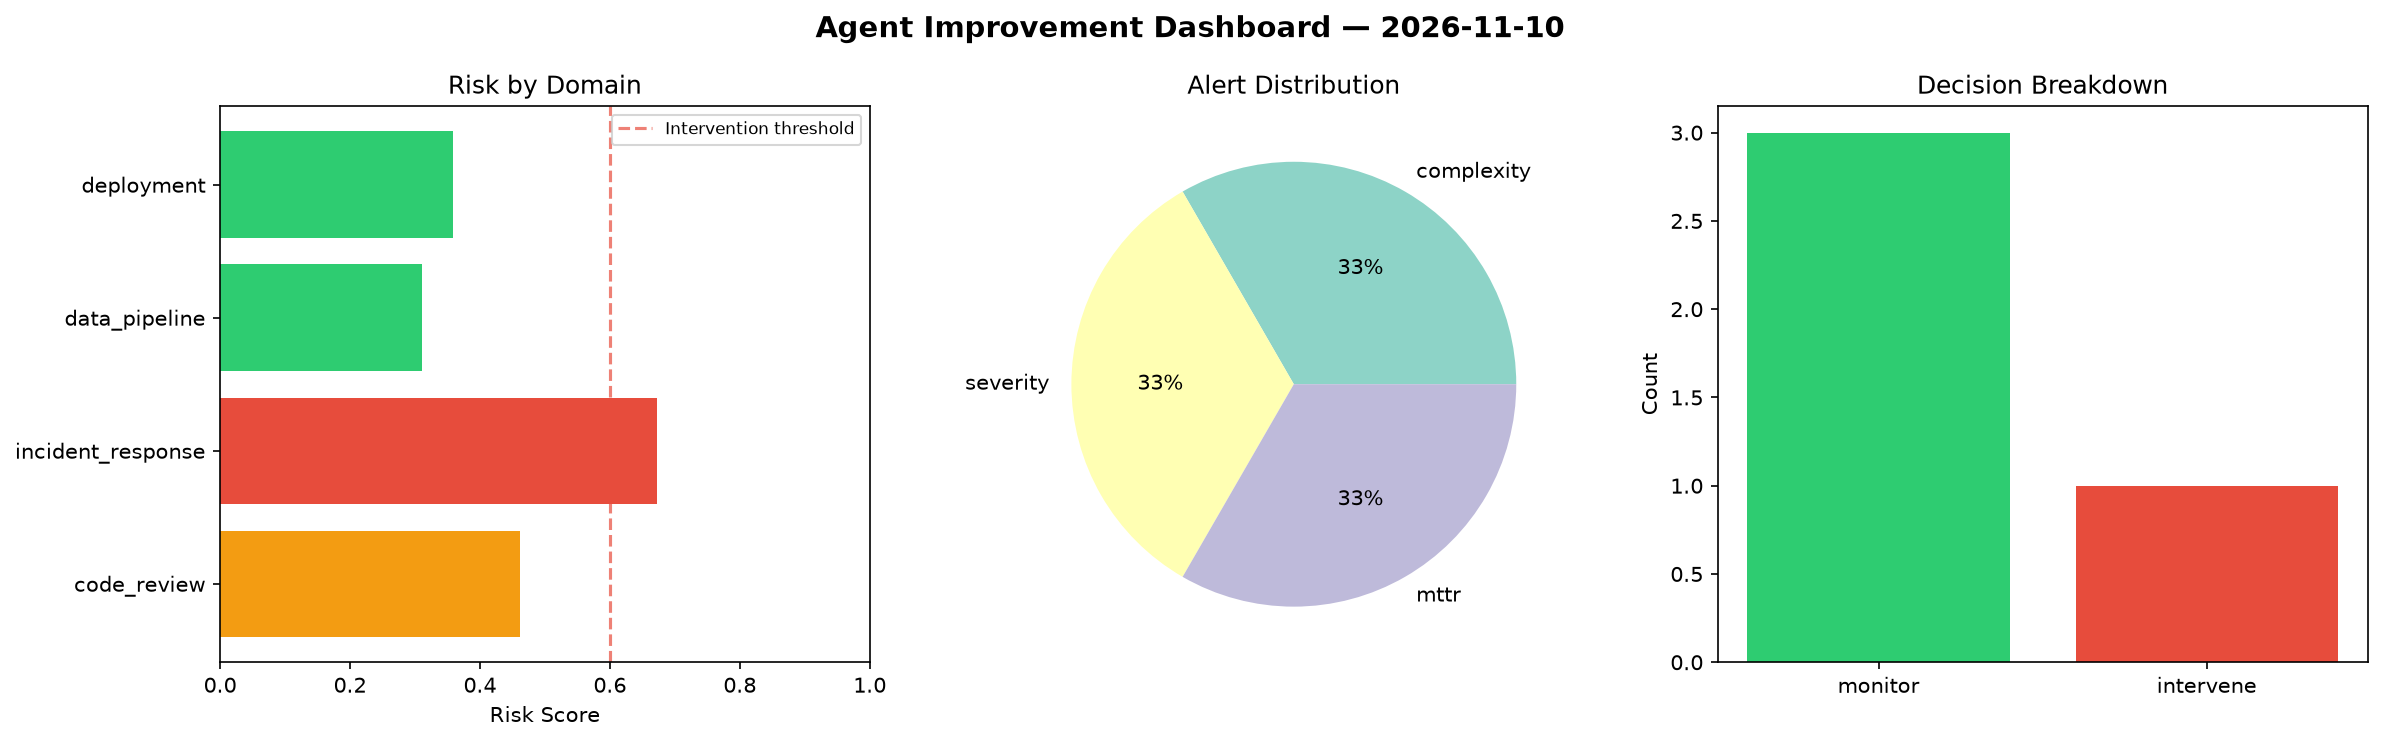
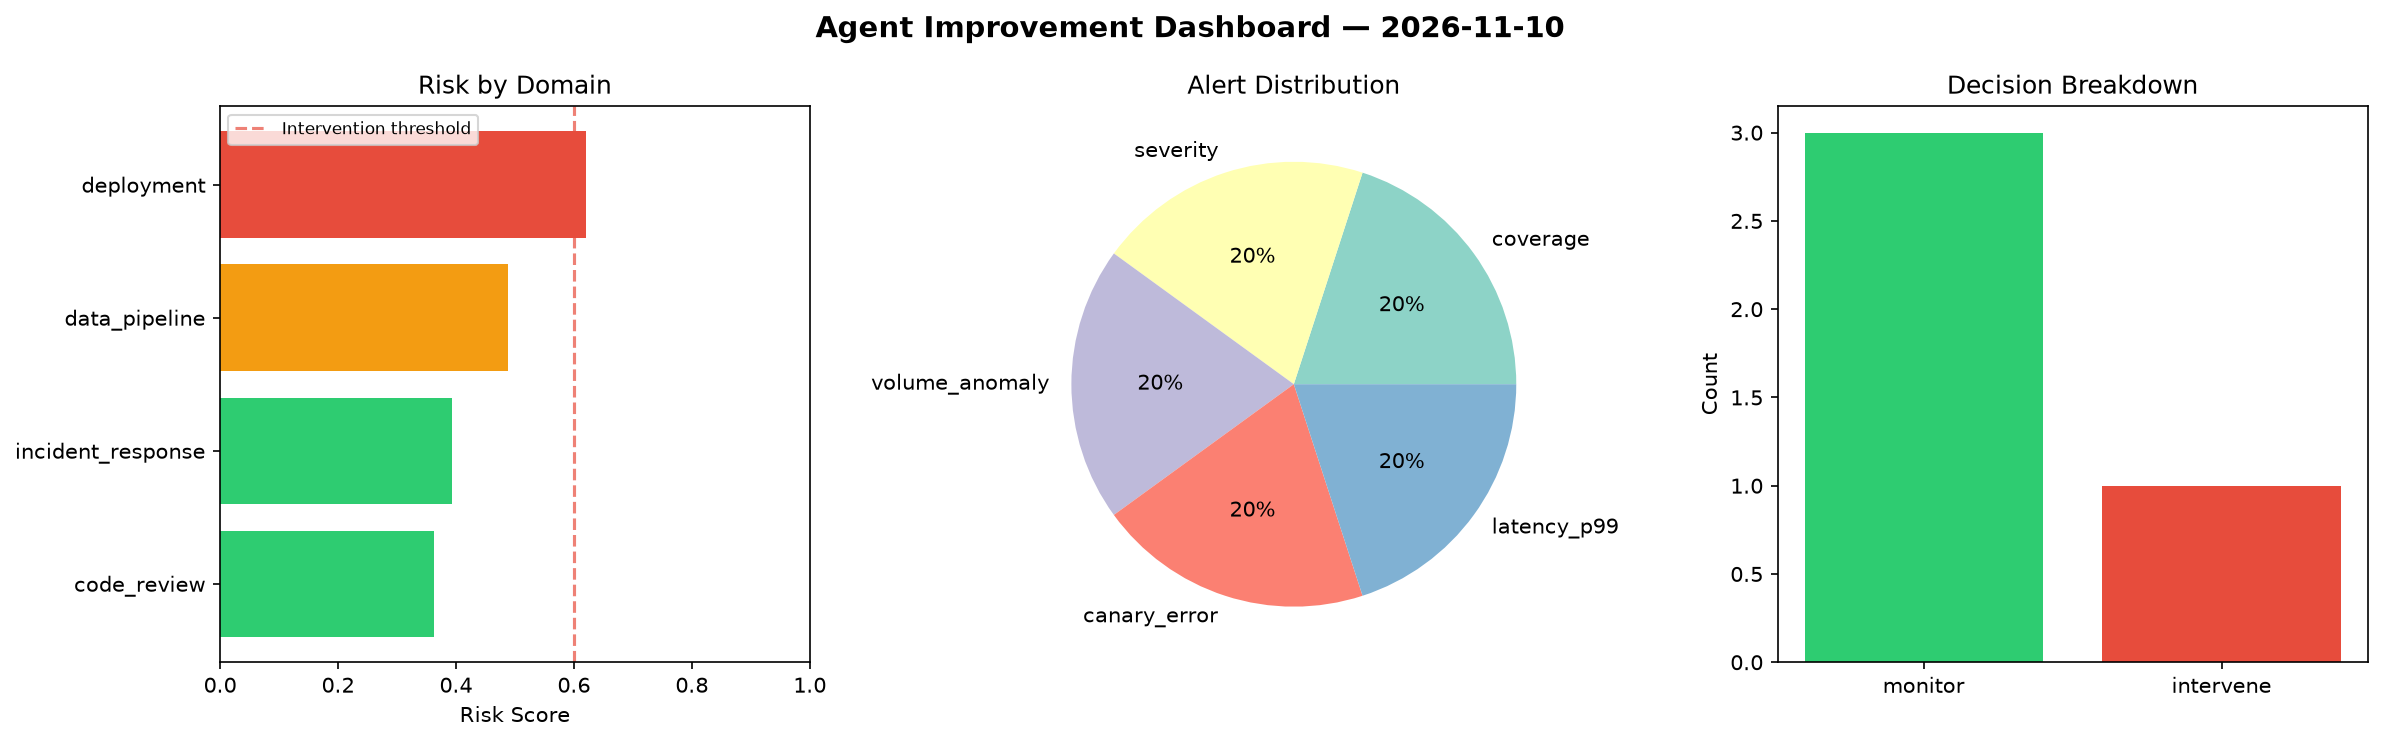
agent-improvement: daily cycle 2026-11-10T16:24

diff --git a/logs/2026-11-10.md b/logs/2026-11-10.md
@@ -1,6 +1,6 @@
 # Agent Improvement Report — 2026-11-10
 
-**Cycle ID:** `e1c22a49` | **Avg Risk:** 0.4511 | **Interventions:** 1/4
+**Cycle ID:** `d9c28cfe` | **Avg Risk:** 0.4657 | **Interventions:** 1/4
 
 ![Dashboard](2026-11-10_dashboard.png)
 
@@ -10,18 +10,18 @@
 
 | Domain | Risk Score | Decision | Alerts |
 |--------|-----------|----------|--------|
-| code_review | 0.4617 | monitor | complexity |
-| incident_response | 0.6724 | intervene | severity, mttr |
-| data_pipeline | 0.3109 | monitor | none |
-| deployment | 0.3592 | monitor | none |
+| code_review | 0.3622 | monitor | coverage |
+| incident_response | 0.3927 | monitor | severity |
+| data_pipeline | 0.4875 | monitor | volume_anomaly |
+| deployment | 0.6202 | intervene | canary_error, latency_p99 |
 
 ## Delta vs Yesterday
 
 | Domain | Today | Yesterday | Change |
 |--------|-------|-----------|--------|
-| code_review | 0.4617 | 0.2871 | 📈 60.8% |
-| incident_response | 0.6724 | 0.4451 | 📈 51.1% |
-| data_pipeline | 0.3109 | 0.5916 | 📉 -47.4% |
-| deployment | 0.3592 | 0.2347 | 📈 53.0% |
+| code_review | 0.3622 | 0.2871 | 📈 26.2% |
+| incident_response | 0.3927 | 0.4451 | 📉 -11.8% |
+| data_pipeline | 0.4875 | 0.5916 | 📉 -17.6% |
+| deployment | 0.6202 | 0.2347 | 📈 164.3% |
 
-**Refinement:** `{'adjustment': 'maintain', 'trend': 'improving', 'window': 4}`
+**Refinement:** `{'adjustment': 'tighten_thresholds', 'trend': 'degrading', 'window': 4}`
